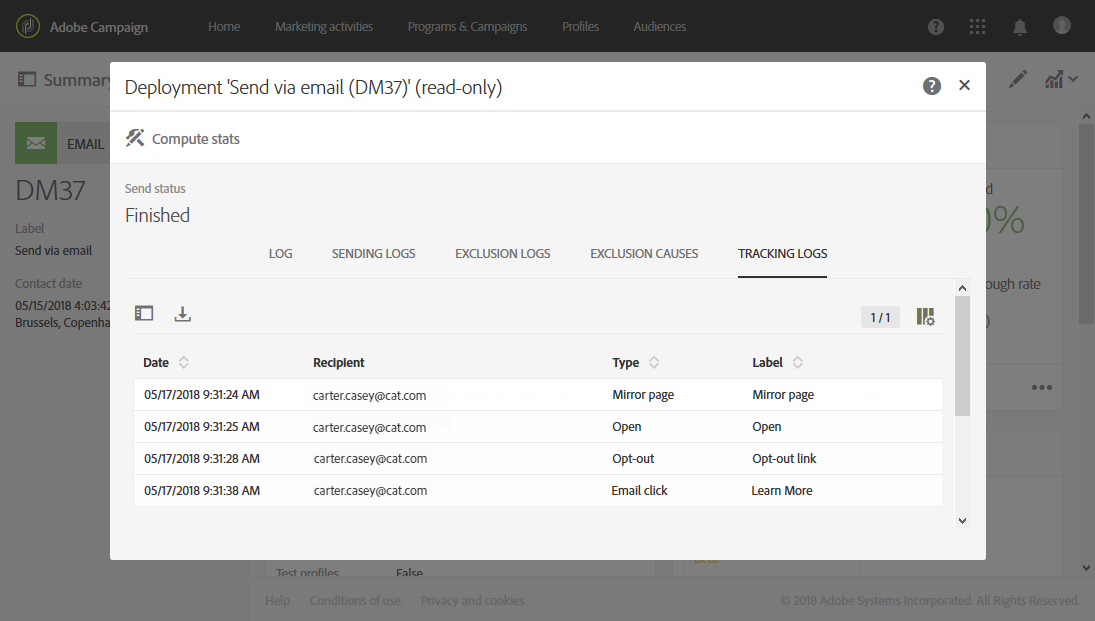
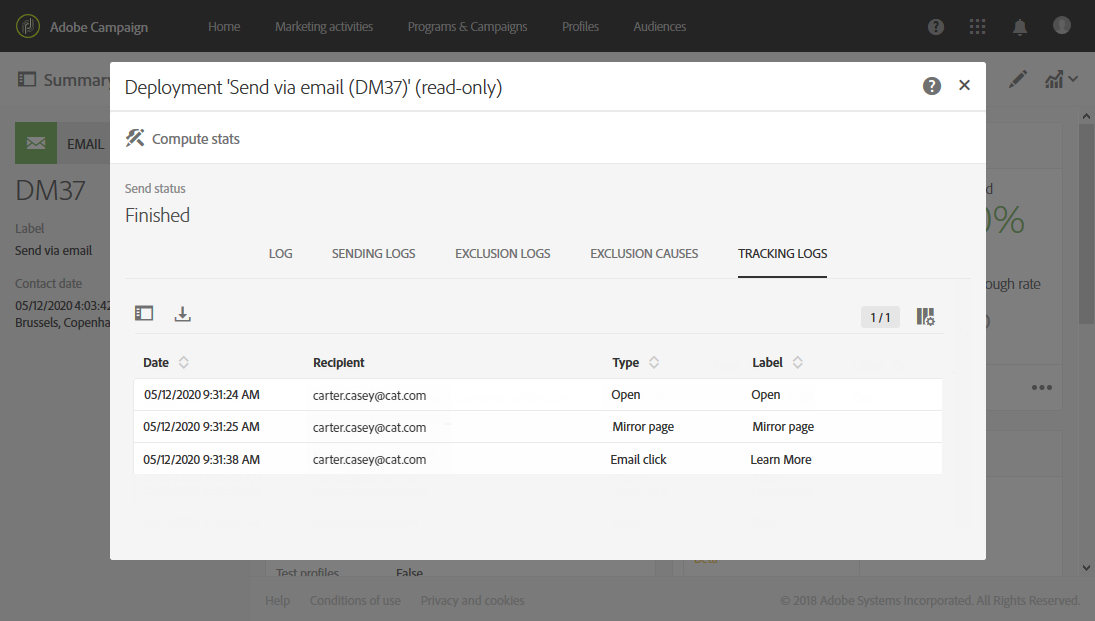
DOCAC-5740

diff --git a/help/sending/using/tracking-messages.md b/help/sending/using/tracking-messages.md
@@ -66,13 +66,13 @@ The **[!UICONTROL Tracking logs]** tab lists the tracking history for this deliv
 In the example above, the recipient:
 
 * Opened the message.
+* Clicked on the mirror page link.
 * Clicked on the "LEARN MORE" custom link.
-* Clicked on the unsubscription and the mirror page link.
 
 In the **[!UICONTROL Type]** column, the possible values are:
 
-* **[!UICONTROL Email click]**: the recipients clicked on a custom link. 
-* **[!UICONTROL Mirror page]**: the recipient clicked on a link to the mirror page. 
+* **[!UICONTROL Email click]**: the recipients clicked on a custom link.
+* **[!UICONTROL Mirror page]**: the recipient clicked on a link to the mirror page.
 * **[!UICONTROL Open]**: the recipient opened the email.
 * **[!UICONTROL Opt-out]**: the recipient clicked on an unsubscription link.
 
@@ -81,6 +81,8 @@ In the **[!UICONTROL Type]** column, the possible values are:
 >For the **push notification** channel, only clicks on mobile notifications are tracked. In that case, the value will be **[!UICONTROL Click on mobile notification]**.
 
 For more on how to insert tracking links, refer to [this page](../../designing/using/links.md#inserting-a-link).
+
+The **[!UICONTROL Tracking indicators]** report contains the key indicators for tracking behavior after email messages are received. For more on this, refer to this [page](../../reporting/using/tracking-indicators.md).
 
 ## Tracked URLs {#tracked-urls}
 
